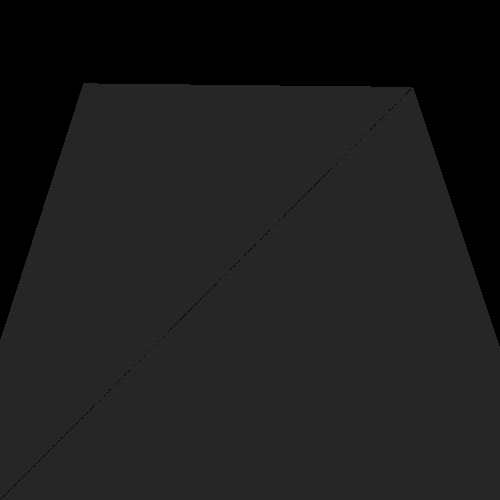
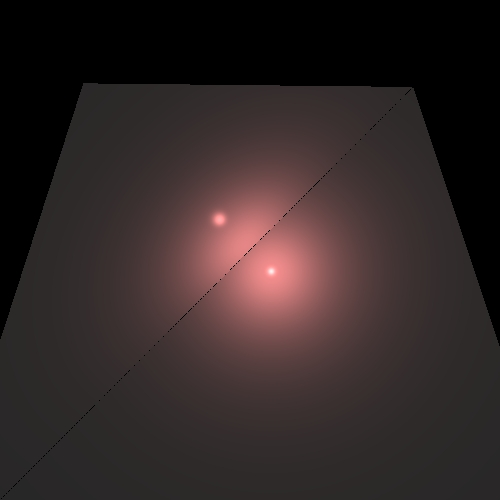
end part 6

Changed region(s): [[0.24, 0.24, 0.81, 0.81]]

diff --git a/src/geometries/Intersectable.java b/src/geometries/Intersectable.java
@@ -20,7 +20,7 @@ public interface Intersectable
          * @param geometry
          * @param point
          */
-        public GeoPoint(Geometry geometry , Point3D point){
+        public GeoPoint(Geometry geometry , Point3D point) {
             this.geometry = geometry;
             this.point = point;
         }
@@ -37,11 +37,9 @@ public interface Intersectable
 
             GeoPoint geoPoint = (GeoPoint) o;
 
-            if (geometry != null ? !geometry.equals(geoPoint.geometry) : geoPoint.geometry != null) return false;
-            return point != null ? point.equals(geoPoint.point) : geoPoint.point == null;
+            return ((geometry.equals(geoPoint.geometry)) && (point.equals(geoPoint.point)));
         }
     }
-
 
     List<GeoPoint> findIntsersections(Ray ray);
 }

diff --git a/src/com/company/Main.java b/src/com/company/Main.java
@@ -4,6 +4,8 @@ package com.company;
  * Yisrael Rolnick, 206672057, yesroelr@gmail.com
  * Baruch Baksht, 211302088, bakshtb@gmail.com
  */
+import geometries.Intersectable;
+import geometries.Plane;
 import geometries.Triangle;
 import primitives.*;
 
@@ -26,6 +28,11 @@ public final class Main {
      * @param args irrelevant here
      */
     public static void main(String[] args) {
+
+        Intersectable.GeoPoint A = new Intersectable.GeoPoint(new Plane(new Point3D(1,1,1) ,  new Vector(1,1,1)) , new Point3D(1,1,1));
+        Intersectable.GeoPoint B = new Intersectable.GeoPoint(new Plane(new Point3D(1,1,1) ,  new Vector(1,1,1)) , new Point3D(1,1,1));
+
+        out.println(A.equals(B));
 
         try { // test zero vector
             new Vector(0, 0, 0);

diff --git a/src/elements/pointLight.java b/src/elements/pointLight.java
@@ -27,7 +27,7 @@ public class pointLight extends Light implements LightSource {
      */
     public pointLight(Color color, Point3D _position, double _kC, double _kl, double _kQ) {
         super(color);
-        this._position = _position;
+        this._position = new Point3D(_position);
         this._kC = _kC;
         this._kl = _kl;
         this._kQ = _kQ;
@@ -41,6 +41,6 @@ public class pointLight extends Light implements LightSource {
 
     @Override
     public Vector getL(Point3D p) {
-        return (p.subtruct(_position)).normalized();
+        return (p.subtruct(_position)).normalize();
     }
 }

diff --git a/src/elements/spotLight.java b/src/elements/spotLight.java
@@ -26,7 +26,7 @@ public class spotLight extends pointLight {
      */
     public spotLight( Color color, Point3D _position,Vector _direction, double _kC, double _kl, double _kQ) {
         super(color,_position, _kC, _kl, _kQ);
-        this._direction = _direction;
+        this._direction = new Vector(_direction).normalized();
     }
 
     @Override

diff --git a/src/primitives/Point3D.java b/src/primitives/Point3D.java
@@ -156,6 +156,6 @@ public class Point3D {
      */
     public double distance(Point3D point3D)
     {
-        return distanceSquared(point3D) * distanceSquared(point3D);
+        return Math.sqrt(distanceSquared(point3D));
     }
 }
